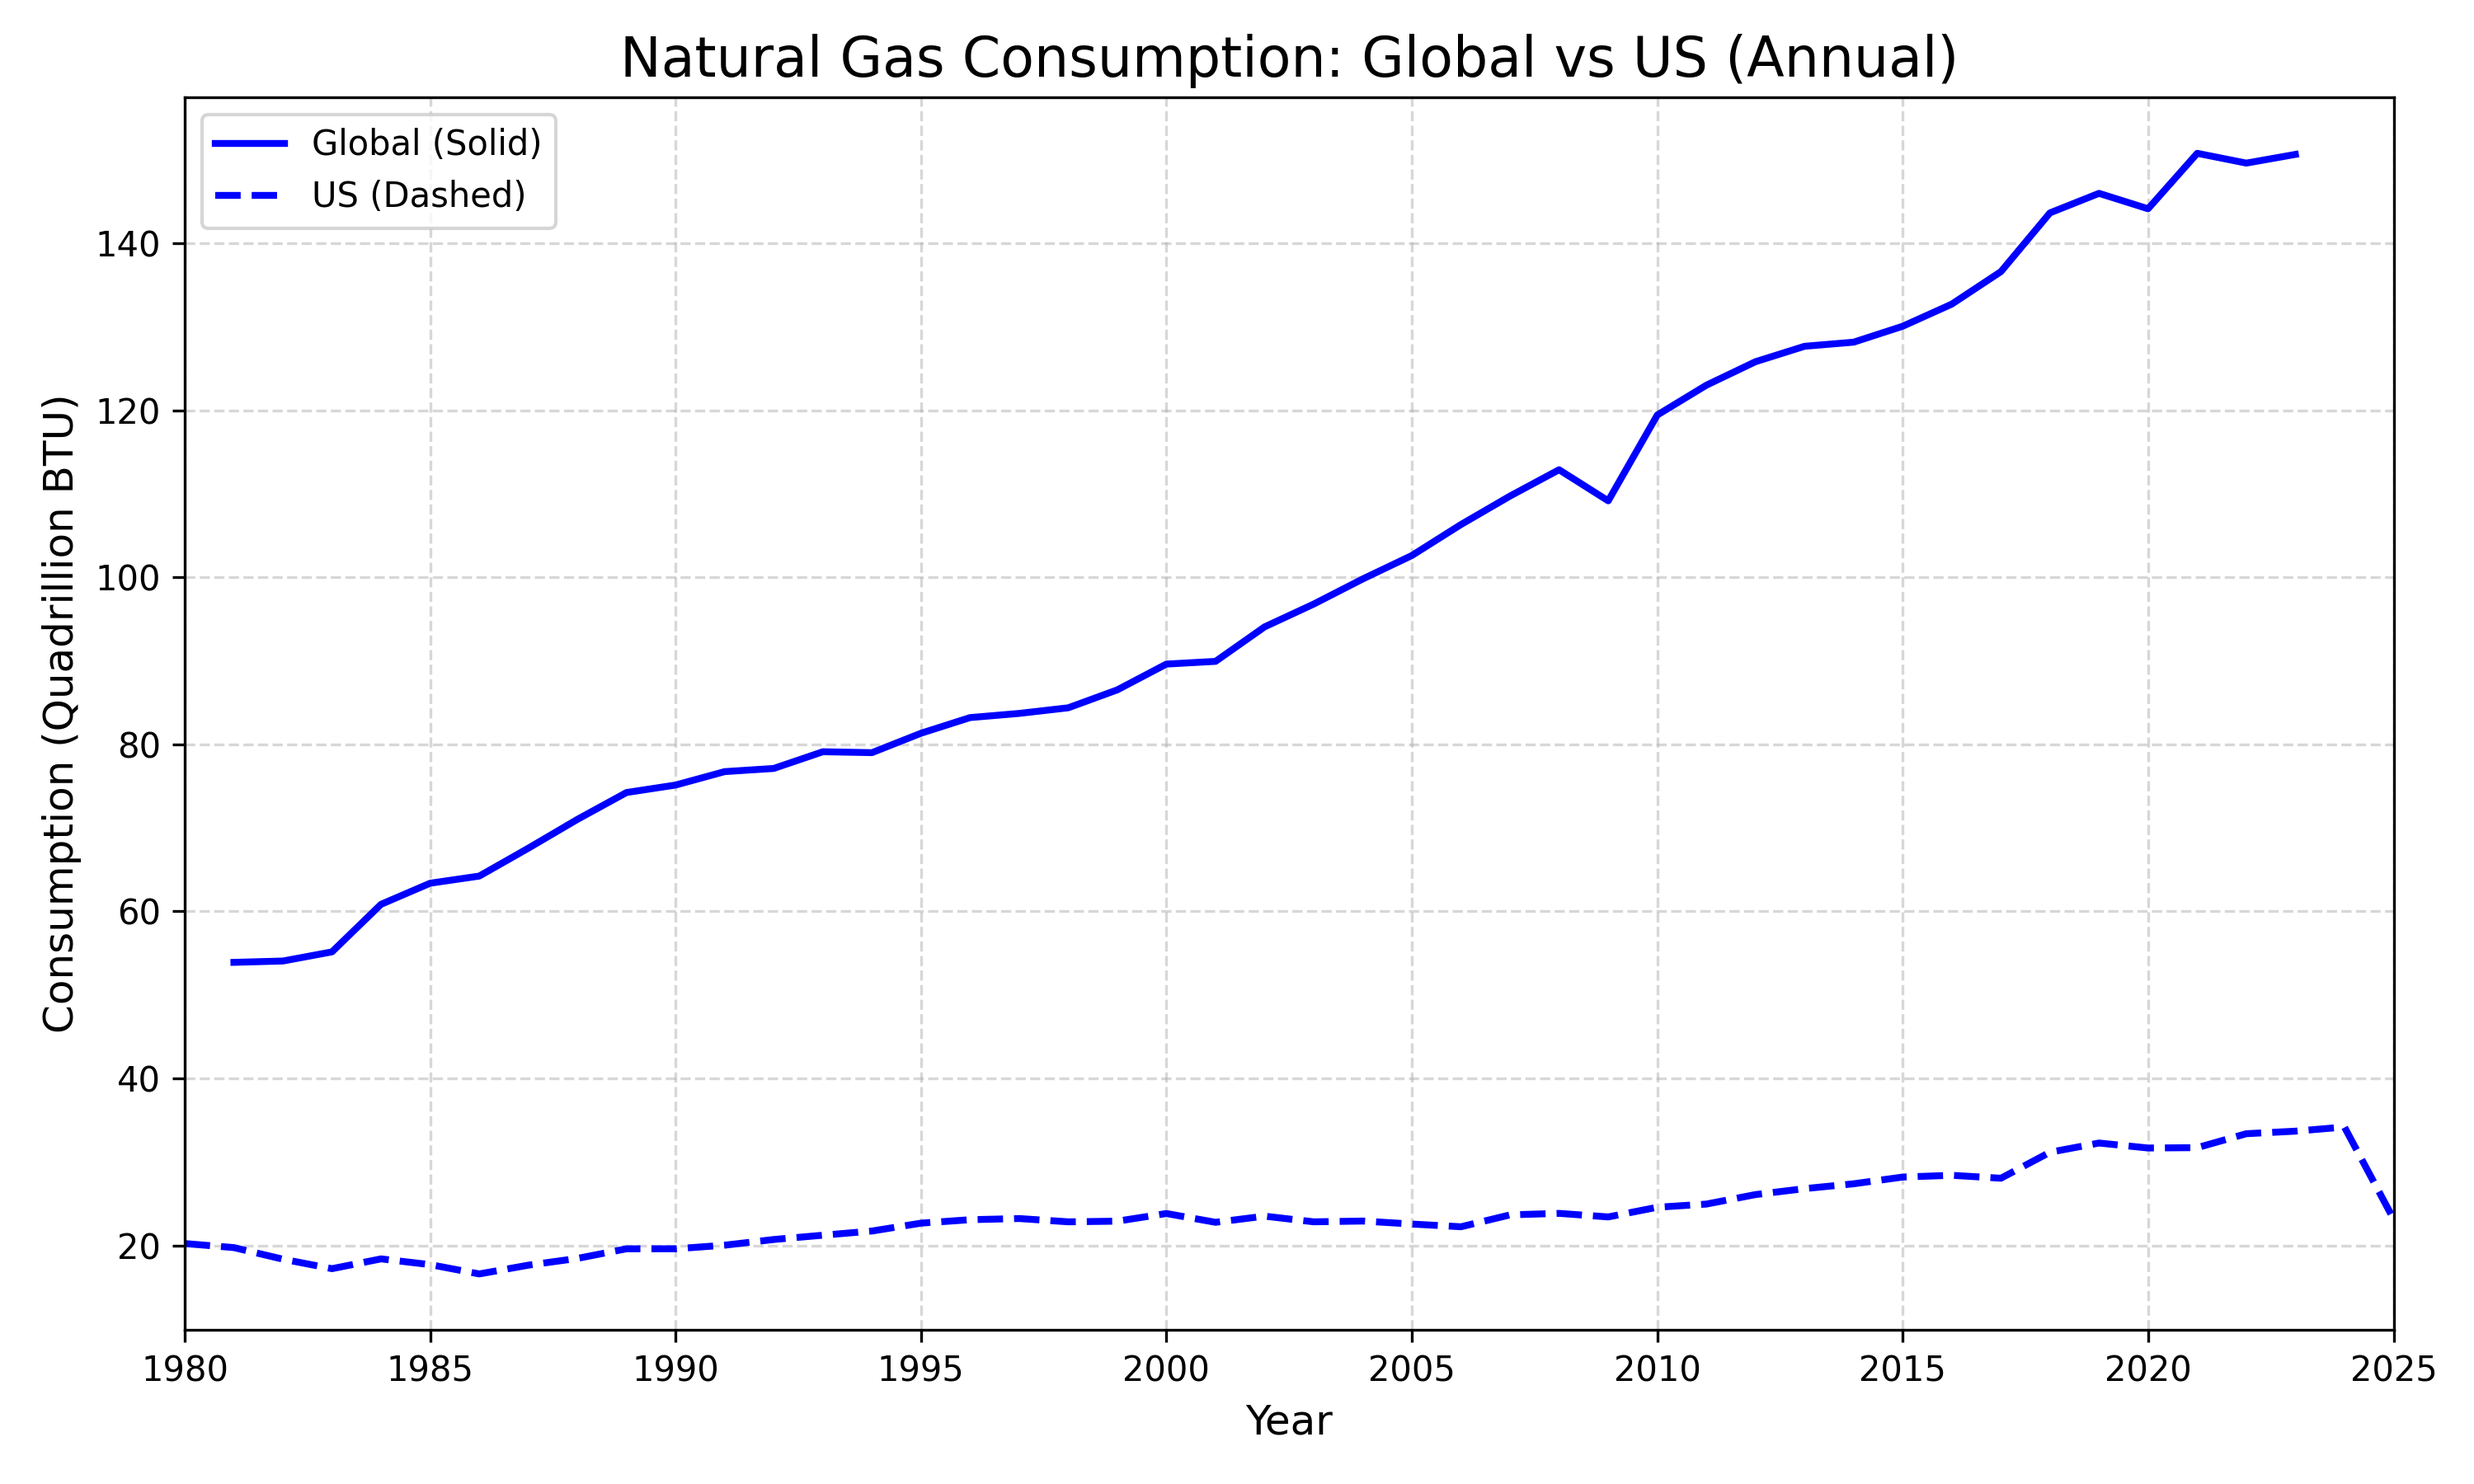
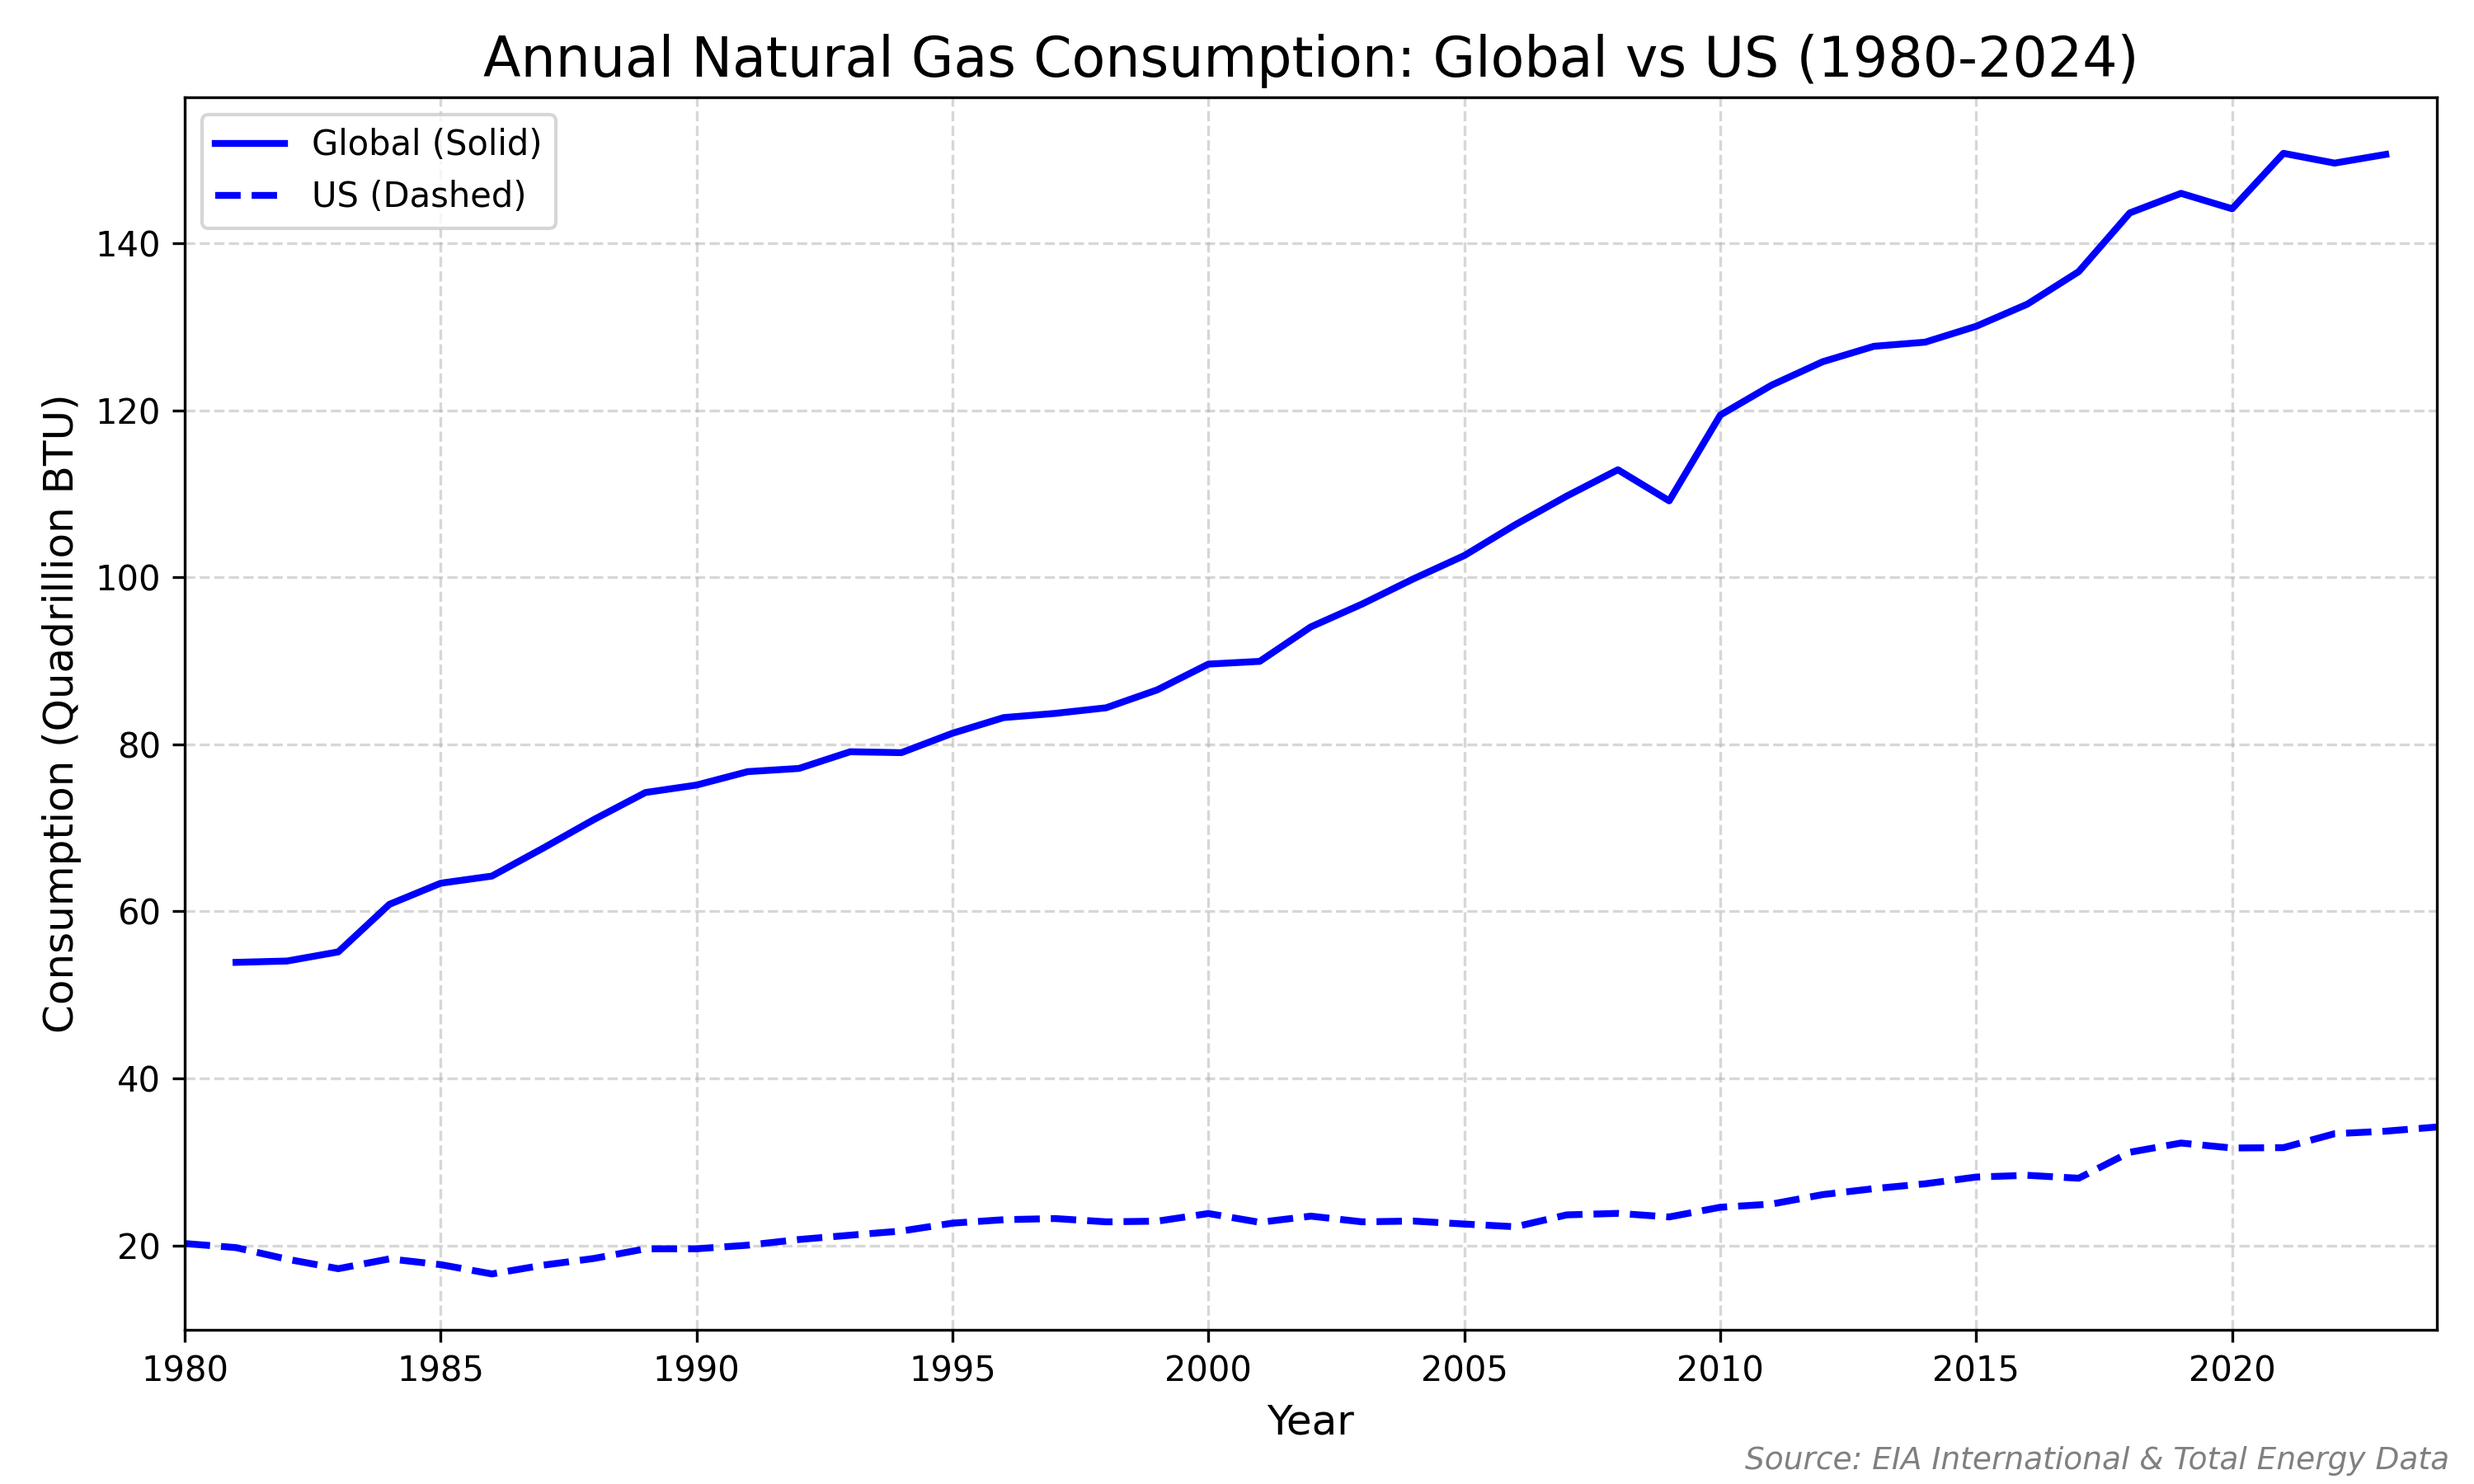
changed global vs us

diff --git a/src/Global_vs_US_fossilfuel_consumption.py b/src/Global_vs_US_fossilfuel_consumption.py
@@ -35,11 +35,13 @@ try:
     # Process Dates
     df_global['Date'] = pd.to_datetime(df_global['period'].astype(str), format='%Y')
     df_global['value'] = pd.to_numeric(df_global['value'], errors='coerce')
-    df_global = df_global[df_global['Date'].dt.year >= 1980]
+    
+    # --- UPDATE 1: Filter to include 1980 through 2024 ONLY ---
+    df_global = df_global[(df_global['Date'].dt.year >= 1980) & (df_global['Date'].dt.year <= 2024)]
 
     # Pivot
     global_pivot = df_global.pivot(index='Date', columns='productName', values='value')
-    print("✓ Global data loaded.")
+    print("✓ Global data loaded (1980-2024).")
     
 except Exception as e:
     print(f"Global Data Failed: {e}")
@@ -77,45 +79,50 @@ try:
     
     # 2. CONVERSION: Trillion BTU -> Quadrillion BTU
     us_annual = us_annual / 1000.0
+
+    # --- UPDATE 2: Drop any rows after 2024 ---
+    # This removes the incomplete 2025 sum
+    us_annual = us_annual[us_annual.index.year <= 2024]
     
-    print("✓ US data loaded, aggregated, and converted.")
+    print("✓ US data loaded, aggregated, converted, and trimmed to 2024.")
 
     # ---------------------------------------------------------
-    # --- VERIFICATION BLOCK (Added per request) ---
+    # --- VERIFICATION BLOCK ---
     # ---------------------------------------------------------
     print("\n" + "="*50)
     print("      DATA VERIFICATION CHECK")
     print("="*50)
 
-    # We will pick a specific year (2020) and a specific column (Natural Gas)
+    # Check 2020 (Still safe, as it is <= 2024)
     check_year = '2020'
     check_col = 'NNTCBUS' 
 
-    print(f"INSPECTING: Year {check_year} | Column '{check_col}' (Natural Gas)")
+    if check_year in us_pivot.index.strftime('%Y'):
+        print(f"INSPECTING: Year {check_year} | Column '{check_col}' (Natural Gas)")
 
-    # A. Show the 12 Monthly values from the RAW pivot (before /1000)
-    # Note: We look at 'us_pivot' here, which is the monthly data
-    monthly_data = us_pivot.loc[check_year, check_col]
-    print(f"\n1. Raw Monthly Data (Trillion BTU):\n{monthly_data}")
+        # A. Show the 12 Monthly values from the RAW pivot
+        monthly_data = us_pivot.loc[check_year, check_col]
+        print(f"\n1. Raw Monthly Data (Trillion BTU):\n{monthly_data}")
 
-    # B. Calculate manual sum of those 12 months
-    manual_sum_trillion = monthly_data.sum()
-    print(f"\n2. Manual Sum of Months: {manual_sum_trillion:,.2f} Trillion BTU")
+        # B. Calculate manual sum of those 12 months
+        manual_sum_trillion = monthly_data.sum()
+        print(f"\n2. Manual Sum of Months: {manual_sum_trillion:,.2f} Trillion BTU")
 
-    # C. Calculate manual conversion
-    manual_quad = manual_sum_trillion / 1000.0
-    print(f"3. Manual Conversion (/1000): {manual_quad:,.4f} Quadrillion BTU")
+        # C. Calculate manual conversion
+        manual_quad = manual_sum_trillion / 1000.0
+        print(f"3. Manual Conversion (/1000): {manual_quad:,.4f} Quadrillion BTU")
 
-    # D. Compare to what is inside your final 'us_annual' DataFrame
-    # Note: Accessing the specific year '2020-01-01' because of 'YS' resampling
-    code_result = us_annual.loc[f'{check_year}-01-01', check_col]
-    print(f"4. Your Code's Final Value:   {code_result:,.4f} Quadrillion BTU")
+        # D. Compare to what is inside your final 'us_annual' DataFrame
+        code_result = us_annual.loc[f'{check_year}-01-01', check_col]
+        print(f"4. Your Code's Final Value:   {code_result:,.4f} Quadrillion BTU")
 
-    # E. Verdict
-    if abs(manual_quad - code_result) < 0.0001:
-        print("\n>> STATUS: SUCCESS. The aggregation and unit conversion are correct.")
+        # E. Verdict
+        if abs(manual_quad - code_result) < 0.0001:
+            print("\n>> STATUS: SUCCESS. The aggregation and unit conversion are correct.")
+        else:
+            print("\n>> STATUS: FAILURE. The values do not match.")
     else:
-        print("\n>> STATUS: FAILURE. The values do not match.")
+        print("Verification skipped (Year 2020 not in data).")
     print("="*50 + "\n")
     # ---------------------------------------------------------
 
@@ -147,12 +154,20 @@ if not global_pivot.empty and not us_annual.empty:
             plt.plot(us_annual.index, us_annual[g['us_col']], 
                      label='US (Dashed)', color=g['color'], linestyle='--', linewidth=2)
 
-        plt.title(f"{g['fuel']} Consumption: Global vs US (Annual)", fontsize=16)
+        plt.title(f"Annual {g['fuel']} Consumption: Global vs US (1980-2024)", fontsize=16)
         plt.ylabel("Consumption (Quadrillion BTU)", fontsize=12)
         plt.xlabel("Year", fontsize=12)
-        plt.xlim(pd.Timestamp('1980-01-01'), max(global_pivot.index.max(), us_annual.index.max()))
+        
+        # --- UPDATE 3: Explicitly lock the axis to 2024 ---
+        plt.xlim(pd.Timestamp('1980-01-01'), pd.Timestamp('2024-01-01'))
+        
         plt.legend()
         plt.grid(True, linestyle='--', alpha=0.5)
+        
+        # Footer
+        plt.figtext(0.99, 0.01, 'Source: EIA International & Total Energy Data', 
+                    horizontalalignment='right', fontsize=9, color='gray', style='italic')
+
         plt.tight_layout()
         
         filename = f"compare_{g['fuel'].replace(' ', '_').lower()}.png"
